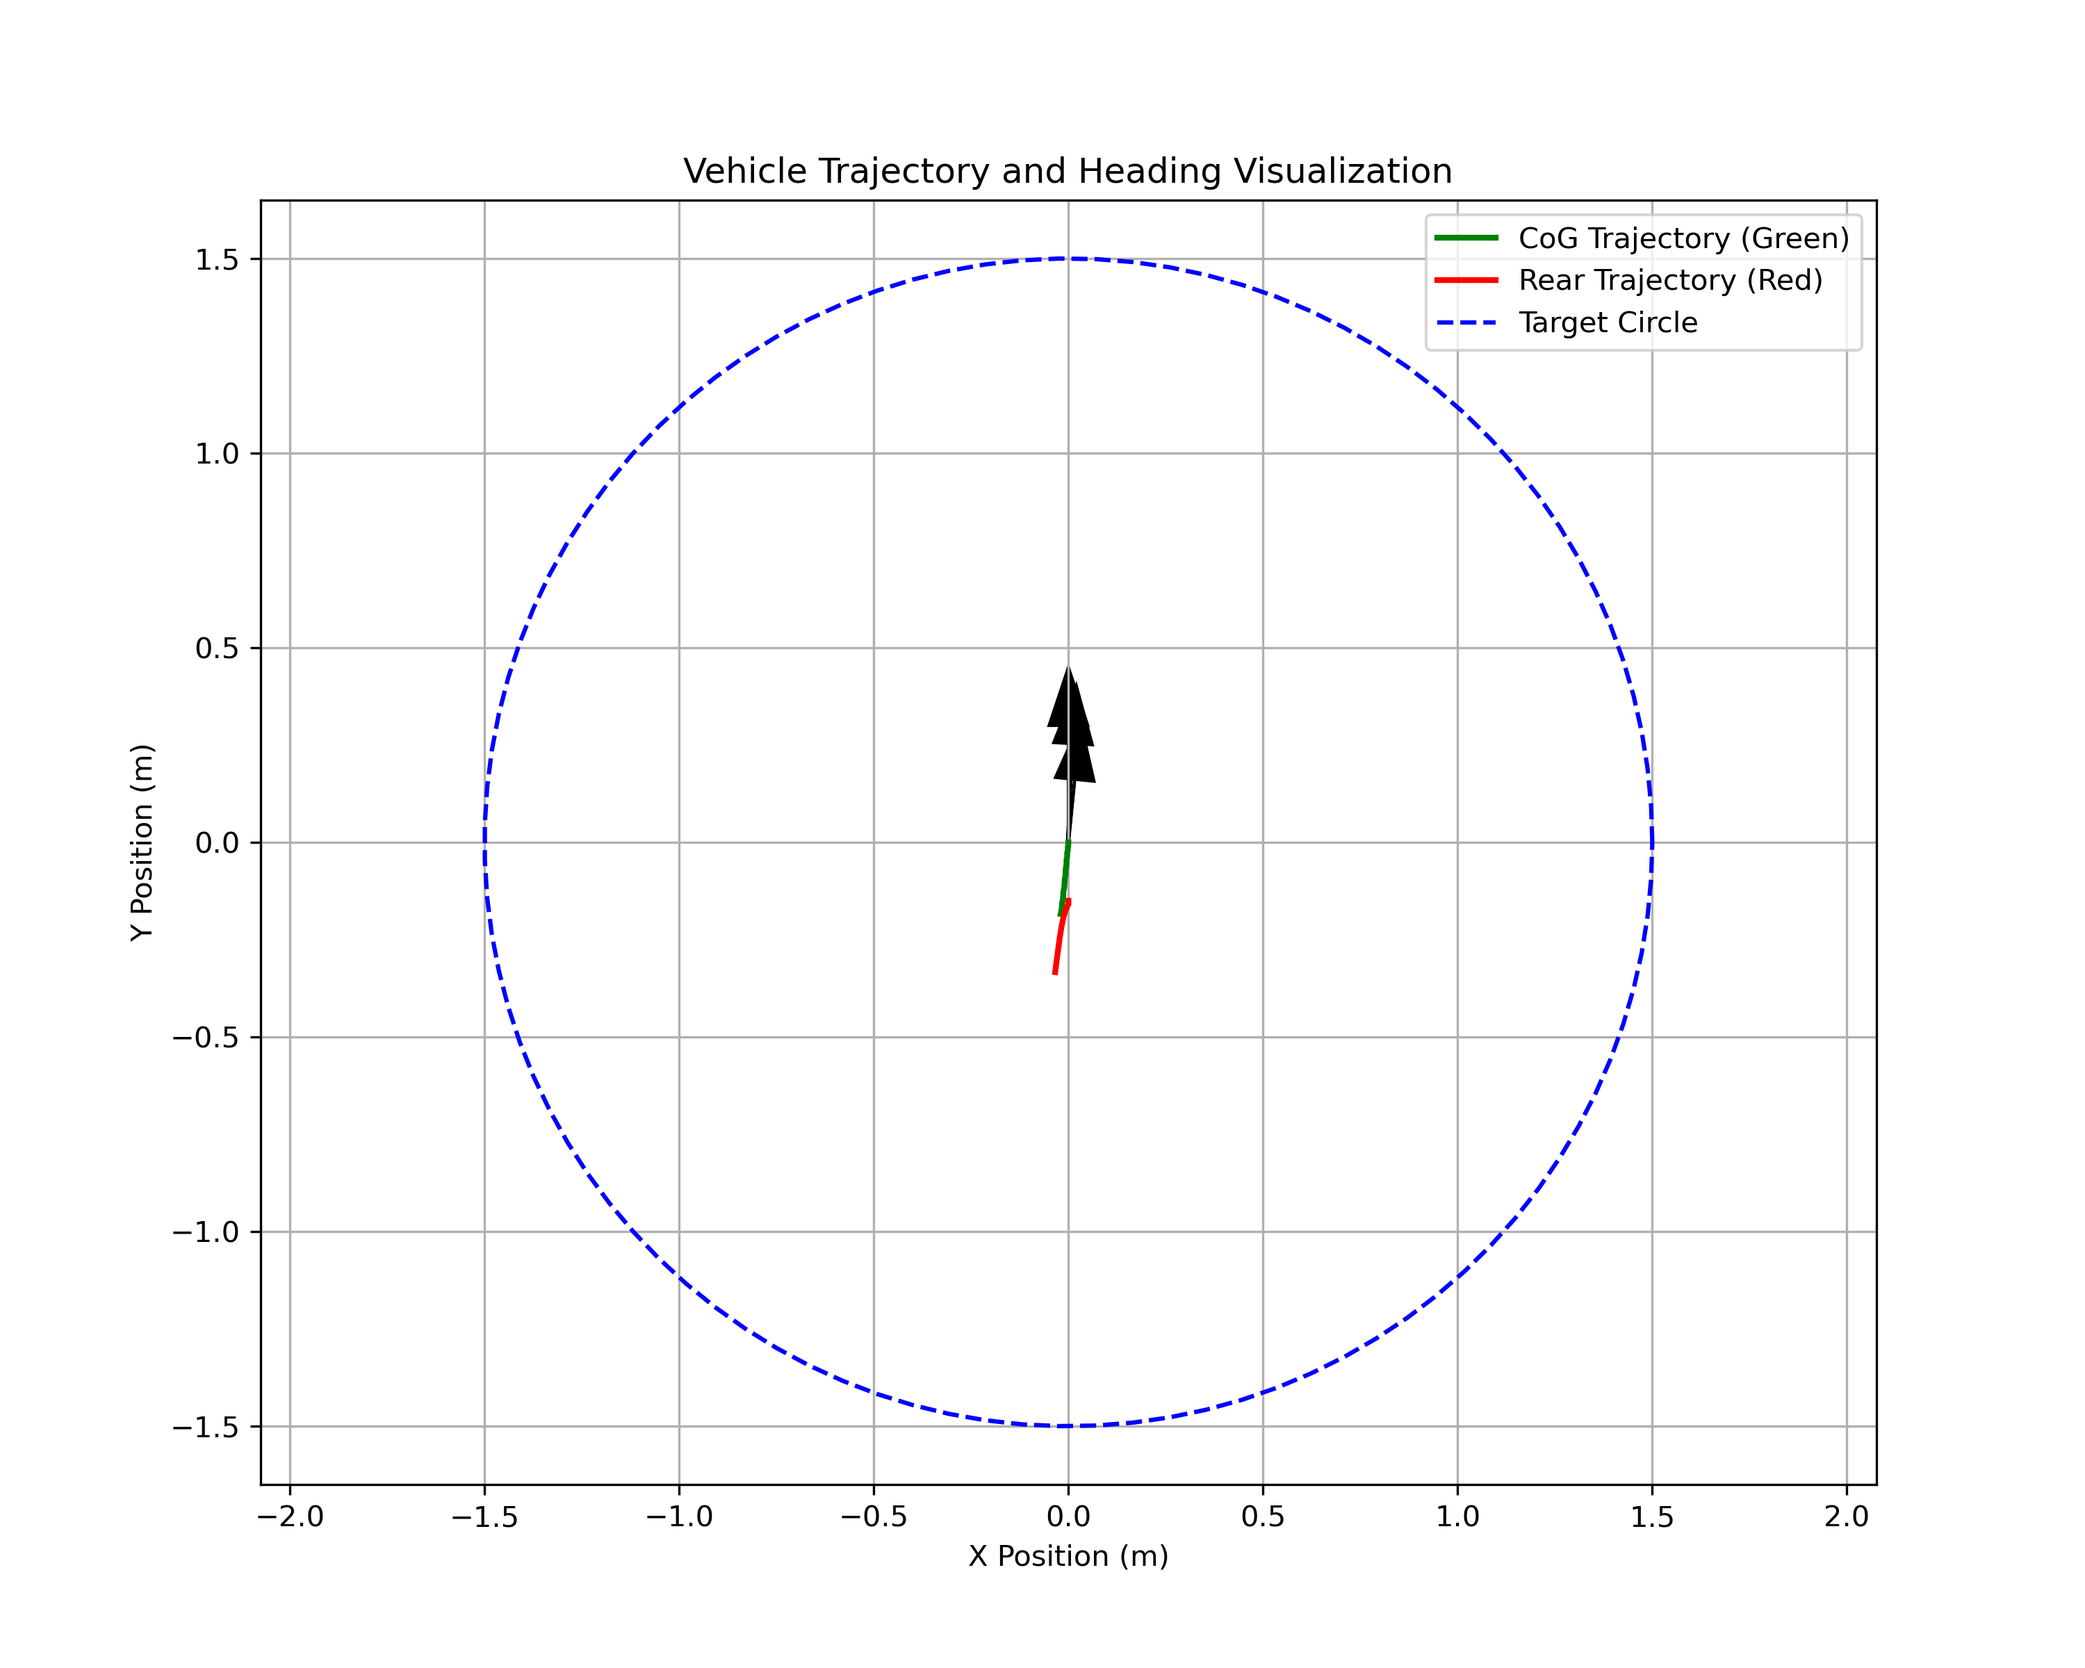
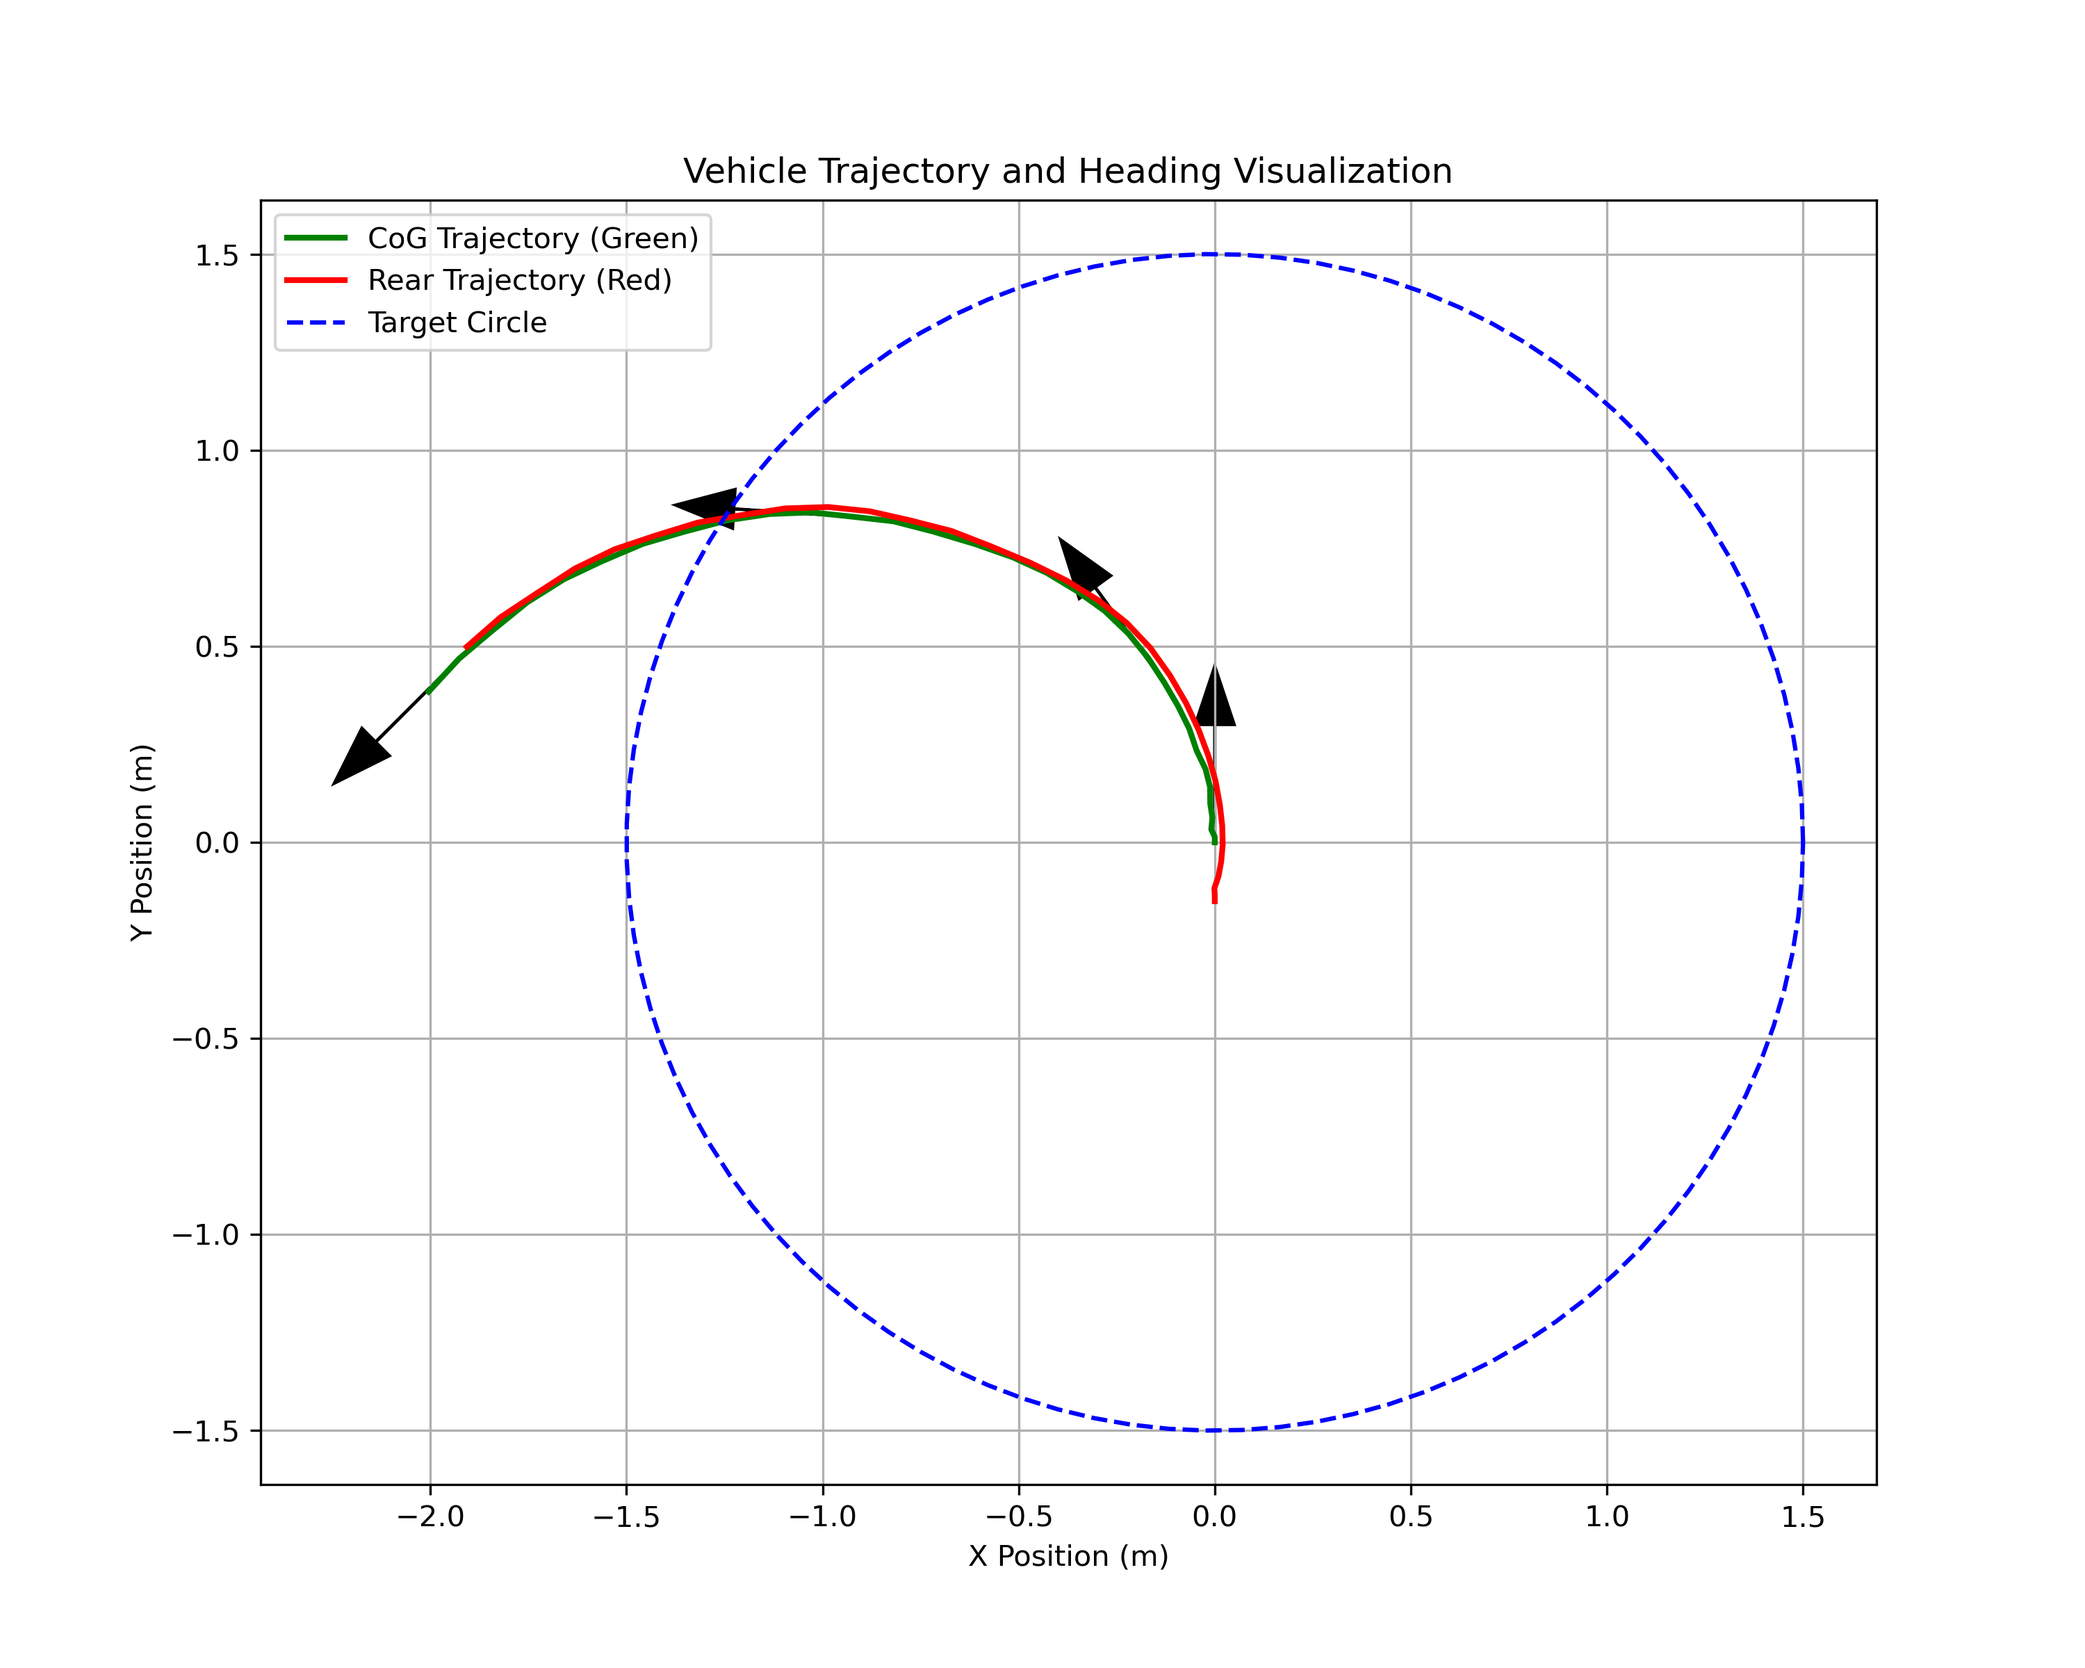
visualize with pygame (unfinished)

diff --git a/nmpc_controller/scripts/loco_nmpc_matplotlib.py b/nmpc_controller/scripts/loco_nmpc_matplotlib.py
@@ -13,11 +13,11 @@ b = 0.14328
 a = L - b
 G_front = m * g * b / L
 G_rear = m * g * a / L
-C_x = 116
-C_alpha = 197
+C_x = 116 # tire longitudinal stiffness
+C_y = 197 # tire lateral stiffness
 Iz = 0.045
-mu = 1.31 # Typical dry road friction
-mu_spin = 0.55 # Friction when tires are spinning
+mu = 1.31 # mu_peak
+mu_spin = 0.55 # spinning coefficient
 
 circle_radius = 1.5
 v_max = 2.5 # m/s
@@ -25,7 +25,7 @@ steer_max = 0.698 # rad
 
 # Initialize plot
 fig, ax = plt.subplots()
-ax.axis([-2, 2, -2, 2])
+ax.axis([-2.5, 2.5, -2.5, 2.5])
 ax.set_aspect('equal')
 line, = ax.plot([], [], 'b-')
 traj_cog, = ax.plot([], [], 'g-')
@@ -47,42 +47,46 @@ x = [0.0, 0.0, np.pi/2, 0.0, 0.0, 0.0]
 def wrap_to_pi(angle):
     return (angle + np.pi) % (2 * np.pi) - np.pi
 
-def tire_dyn(Ux, Ux_cmd, mu, mu_slide, Fz, C_x, C_alpha, alpha):
-    # longitude wheel slip
-    if Ux_cmd == Ux:
+def tire_dyn(Ux, Ux_cmd, mu, mu_slide, Fz, C_x, C_y, alpha):
+    # Longitudinal wheel slip
+    if abs(Ux_cmd - Ux) < 1e-6:  # Ux_cmd approximately equal to Ux
         K = 0
-    elif Ux == 0:
+    elif abs(Ux) < 1e-6:  # Handle Ux = 0
         Fx = np.sign(Ux_cmd) * mu * Fz
         Fy = 0
         return Fx, Fy
     else:
         K = (Ux_cmd - Ux) / abs(Ux)
 
-    # instead of avoiding -1, now look for positive equivalent
+    # Handle K < 0 case
     reverse = 1
     if K < 0:
         reverse = -1
         K = abs(K)
 
-    # alpha > pi/2 cannot be adapted to this formula
-    # because of the use of tan(). Use the equivalent angle instead.
+    # Alpha > pi/2 adaptation
     if abs(alpha) > np.pi / 2:
         alpha = (np.pi - abs(alpha)) * np.sign(alpha)
 
-    gamma = np.sqrt(C_x**2 * (K / (1 + K))**2 + C_alpha**2 * (np.tan(alpha) / (1 + K))**2)
+    # Calculate gamma with safeguard for K = -1
+    gamma = np.sqrt(C_x**2 * (K / max(1 + K, 1e-6))**2 + C_y**2 * (np.tan(alpha) / max(1 + K, 1e-6))**2)
+
+    # Friction model for gamma <= 3 * mu * Fz
     if gamma <= 3 * mu * Fz:
         F = gamma - (2 - mu_slide / mu) * gamma**2 / (3 * mu * Fz) + \
             (1 - (2 / 3) * (mu_slide / mu)) * gamma**3 / (9 * mu**2 * Fz**2)
     else:
-        # more accurate modeling with peak friction value
         F = mu_slide * Fz
 
+    # Compute forces with safeguard for gamma = 0
     if gamma == 0:
         Fx = Fy = 0
     else:
-        Fx = C_x / gamma * (K / (1 + K)) * F * reverse
-        Fy = -C_alpha / gamma * (np.tan(alpha) / (1 + K)) * F
+        Fx = C_x / max(gamma, 1e-6) * (K / max(1 + K, 1e-6)) * F * reverse
+        Fy = -C_y / max(gamma, 1e-6) * (np.tan(alpha) / max(1 + K, 1e-6)) * F
+
     return Fx, Fy
+
 
 def dynamics(x, u):
     pos_x, pos_y, pos_phi = x[:3]
@@ -106,8 +110,8 @@ def dynamics(x, u):
     # safety that keep alpha in valid range
     alpha_F, alpha_R = wrap_to_pi(alpha_F), wrap_to_pi(alpha_R)
 
-    Fxf, Fyf = tire_dyn(Ux, Ux, mu, mu_spin, G_front, C_x, C_alpha, alpha_F)
-    Fxr, Fyr = tire_dyn(Ux, Ux_cmd, mu, mu_spin, G_rear, C_x, C_alpha, alpha_R)
+    Fxf, Fyf = tire_dyn(Ux, Ux, mu, mu_spin, G_front, C_x, C_y, alpha_F)
+    Fxr, Fyr = tire_dyn(Ux, Ux_cmd, mu, mu_spin, G_rear, C_x, C_y, alpha_R)
 
     # Vehicle Dynamics
     r_dot = (a * Fyf * np.cos(delta) - b * Fyr) / Iz
@@ -145,7 +149,6 @@ def cost_function(u, x0, N, dt):
     # x0: initial state
     # N: prediction horizon
     # u: control inputs over the horizon (throttle, steering)
-
     vx = x0[3]
 
     if vx >= 0:
@@ -178,11 +181,12 @@ def cost_function(u, x0, N, dt):
     return cost
 
 # MPC setup
-N = 10  # prediction horizon
+N = 3  # prediction horizon
 
 # u_initial = np.random.uniform(-2.0, 2.0, 2 * N)  # Randomize within bounds
 # u_initial = [-0.70733845,  0.05867338, -2.1500941,   0.16801063,  0.06384393, -0.58938019] # Backward
 # u_initial = [0.84183408,  0.45151292,  0.7560102,   0.35675445, -2.09682026,  0.33119607] # Forward
+# u_initial = [0, 0, 0, 0, 0, 0]
 
 throttle_bound = (-v_max, v_max)  
 steer_bound = (-steer_max, steer_max)
@@ -224,21 +228,6 @@ heading_arrow = ax.quiver(0, 0, 0, 0, angles="xy", scale_units="xy", scale=3, co
 # Legend for trajectories
 ax.legend([traj_cog, traj_r], ["CoG Trajectory (Green)", "Rear Trajectory (Red)"], loc="upper right")
 
-# Add data lists to store values for subplots
-vx_data = []
-vy_data = []
-yaw_data = []
-r_data = []
-slip_angle_data = []
-steering_angle_data = []
-vx_cmd_data = []
-
-velocity_texts = [
-    ax.text(0.05, 0.95, "v_x: 0.00", transform=ax.transAxes, color="black", fontsize=10),
-    ax.text(0.05, 0.90, "v_y: 0.00", transform=ax.transAxes, color="black", fontsize=10)
-]
-
-# Modify the update_plot function to collect data for subplots
 def update_plot(frame):
     global x
     u = mpc_control(x)  # Get control inputs from MPC
@@ -246,26 +235,7 @@ def update_plot(frame):
 
     pos_x, pos_y, pos_phi = x[:3]
     v_x, v_y = x[3], x[4]  # Assuming v_x and v_y are at index 3 and 4 of the state vector
-    r = x[5]  # Yaw rate
 
-    # Calculate slip angle for front and rear
-    alpha_F = np.arctan((v_y + a * r) / abs(v_x))  # Front slip angle
-    alpha_R = np.arctan((v_y - b * r) / abs(v_x))  # Rear slip angle
-    
-    # Get the current input
-    vx_cmd = u[0]
-    steering_angle = u[1]
-
-    # Append the data for the subplots
-    vx_data.append(v_x)
-    vy_data.append(v_y)
-    yaw_data.append(pos_phi)
-    r_data.append(r)
-    slip_angle_data.append(alpha_F)  # Assuming you want the front slip angle
-    steering_angle_data.append(steering_angle)
-    vx_cmd_data.append(vx_cmd)
-
-    # Update the trajectory and heading arrow as before
     A = np.array([[np.cos(pos_phi), -np.sin(pos_phi), pos_x],
                   [np.sin(pos_phi), np.cos(pos_phi), pos_y],
                   [0, 0, 1]])
@@ -273,6 +243,7 @@ def update_plot(frame):
     CoG_n = A @ CoG
     rear_n = A @ r_axle
 
+    # Update the plot
     line.set_data(pos[0, :], pos[1, :])
 
     # Append new points to the trajectory lists
@@ -292,77 +263,49 @@ def update_plot(frame):
     # Update the static velocity annotations (in top-left corner)
     velocity_texts[0].set_text(f"v_x: {v_x:.2f}")
     velocity_texts[1].set_text(f"v_y: {v_y:.2f}")
-    
-    # Stop after N frames (e.g., 500 frames)
-    if frame == 200:
-        plt.close()  # Close the plot window
-        plot_simulation_results()  # Call the function to plot after the animation
 
-# Create the plotting function for subplots
-def plot_simulation_results():
-    # Create subplots for the simulation data
-    fig, axs = plt.subplots(3, 2, figsize=(12, 10))
-    fig.suptitle("Vehicle Dynamics during Simulation", fontsize=16)
-
-    # Plot v_x and v_y
-    axs[0, 0].plot(vx_data, label="v_x (m/s)")
-    
-    # Determine the direction of motion (forward or backward)
-    if vx_data[-1] >= 0:
-        vx_goal = v_max  # Forward velocity goal
-    else:
-        vx_goal = -v_max  # Backward velocity goal
-    axs[0, 0].axhline(y=vx_goal, color='r', linestyle='--', label="v_x_goal")
-    
-    axs[0, 0].set_ylabel("v_x (m/s)")
-    axs[0, 0].legend()
-    axs[0, 0].grid()
-
-    axs[0, 1].plot(vy_data, label="v_y (m/s)")
-    axs[0, 1].set_ylabel("v_y (m/s)")
-    axs[0, 1].legend()
-    axs[0, 1].grid()
-
-    # Plot yaw angle and yaw rate (r)
-    axs[1, 0].plot(yaw_data, label="Yaw (rad)")
-    axs[1, 0].set_ylabel("Yaw (rad)")
-    axs[1, 0].legend()
-    axs[1, 0].grid()
-
-    axs[1, 1].plot(r_data, label="Yaw rate (rad/s)")
-    
-    # Determine the yaw rate goal based on the current motion direction
-    if vx_data[-1] >= 0:
-        r_goal = vx_goal / circle_radius  # Forward yaw rate goal
-    else:
-        r_goal = vx_goal / circle_radius  # Backward yaw rate goal (same calculation, opposite direction)
-    axs[1, 1].axhline(y=r_goal, color='r', linestyle='--', label="r_goal")
-    
-    axs[1, 1].set_ylabel("Yaw rate (rad/s)")
-    axs[1, 1].legend()
-    axs[1, 1].grid()
-
-    # Plot slip angle
-    axs[2, 0].plot(slip_angle_data, label="Slip angle (rad)")
-    axs[2, 0].set_ylabel("Slip angle (rad)")
-    axs[2, 0].legend()
-    axs[2, 0].grid()
-
-    # Plot Control Input
-    axs[2, 1].plot(vx_cmd_data, label="v_x command (m/s)")
-    axs[2, 1].plot(steering_angle_data, label="Steering angle (rad)")
-    axs[2, 1].set_ylabel("Control Input")
-    axs[2, 1].legend()
-    axs[2, 1].grid()
-
-    plt.tight_layout()
-    plt.subplots_adjust(top=0.9)
-    plt.show()
-
+# Initialize a list to store the velocity text annotations
+velocity_texts = [
+    ax.text(0.05, 0.95, "v_x: 0.00", transform=ax.transAxes, color="black", fontsize=10),
+    ax.text(0.05, 0.90, "v_y: 0.00", transform=ax.transAxes, color="black", fontsize=10)
+]
 
 # Start the animation
 ani = FuncAnimation(fig, update_plot, frames=500, interval=dt * 1000)
 plt.show()
 
+################################# Plot ####################################################
 
+# Static plot of the trajectory and heading
+plt.figure(figsize=(10, 8))
+
+# Plot the trajectories
+plt.plot(traj_cog_x, traj_cog_y, label="CoG Trajectory (Green)", color="green", linewidth=2)
+plt.plot(traj_r_x, traj_r_y, label="Rear Trajectory (Red)", color="red", linewidth=2)
+
+# Add the heading arrows
+for i in range(0, len(traj_cog_x), 10):  # Plot every 10th point for clarity
+    x, y = traj_cog_x[i], traj_cog_y[i]
+    yaw = wrap_to_pi(np.arctan2(traj_cog_y[i] - traj_r_y[i], traj_cog_x[i] - traj_r_x[i]))  # Corrected yaw direction
+    dx = 0.3 * np.cos(yaw)  # Scale arrows
+    dy = 0.3 * np.sin(yaw)
+    plt.arrow(x, y, dx, dy, head_width=0.1, head_length=0.15, fc="black", ec="black")
+
+# Add circle for the target trajectory
+theta = np.linspace(0, 2 * np.pi, 100)
+circle_x = circle_radius * np.cos(theta)
+circle_y = circle_radius * np.sin(theta)
+plt.plot(circle_x, circle_y, '--', label='Target Circle', color="blue", linewidth=1.5)
+
+# Plot settings
+plt.xlabel("X Position (m)")
+plt.ylabel("Y Position (m)")
+plt.title("Vehicle Trajectory and Heading Visualization")
+plt.axis("equal")
+plt.legend()
+plt.grid()
+
+# Save the plot as an image
+plt.savefig("trajectory_and_heading.png", dpi=300)
+plt.show()
 

diff --git a/nmpc_controller/scripts/model_predictive_speed_and_steer_control.py b/nmpc_controller/scripts/model_predictive_speed_and_steer_control.py
@@ -18,9 +18,9 @@ from utils.angle import angle_mod
 
 from PathPlanning.CubicSpline import cubic_spline_planner
 
-NX = 6  # x = x, y, yaw, vx, vy, r
-NU = 2  # u = [v_cmd, delta]
-T = 5  # horizon length
+NX = 4  # x = x, y, v, yaw
+NU = 2  # a = [accel, steer]
+T = 50  # horizon length
 
 # mpc parameters
 R = np.diag([0.01, 0.01])  # input cost matrix
@@ -35,26 +35,24 @@ MAX_TIME = 500.0  # max simulation time
 MAX_ITER = 3  # Max iteration
 DU_TH = 0.1  # iteration finish param
 
-TARGET_SPEED = 1.5  # [m/s] target speed
+TARGET_SPEED = 10.0 / 3.6  # [m/s] target speed
 N_IND_SEARCH = 10  # Search index number
 
-DT = 0.2  # [s] time tick
+DT = 0.02  # [s] time tick
 
 # Vehicle parameters
-LENGTH = 0.3855  # [m]
-WIDTH = 0.1542  # [m]
-BACKTOWHEEL = 0.15  # [m]
-WHEEL_LEN = 0.05  # [m]
-WHEEL_WIDTH = 0.03  # [m]
-TREAD = 0.12  # [m]
-WB = 0.257  # [m]
-MASS = 2.35 # [kg]
-Iz = 0.045 # [kg mm]
+LENGTH = 4.5  # [m]
+WIDTH = 2.0  # [m]
+BACKTOWHEEL = 1.0  # [m]
+WHEEL_LEN = 0.3  # [m]
+WHEEL_WIDTH = 0.2  # [m]
+TREAD = 0.7  # [m]
+WB = 2.5  # [m]
 
 MAX_STEER = np.deg2rad(45.0)  # maximum steering angle [rad]
 MAX_DSTEER = np.deg2rad(30.0)  # maximum steering speed [rad/s]
-MAX_SPEED = 2.5 # 55.0 / 3.6  # maximum speed [m/s]
-MIN_SPEED = 0.1 # -20.0 / 3.6  # minimum speed [m/s]
+MAX_SPEED = 55.0 / 3.6  # maximum speed [m/s]
+MIN_SPEED = -20.0 / 3.6  # minimum speed [m/s]
 MAX_ACCEL = 1.0  # maximum accel [m/ss]
 
 show_animation = True
@@ -65,13 +63,11 @@ class State:
     vehicle state class
     """
 
-    def __init__(self, x=0.0, y=0.0, yaw=0.0, vx=0.0, vy=0.0, r=0.0):
+    def __init__(self, x=0.0, y=0.0, yaw=0.0, v=0.0):
         self.x = x
         self.y = y
         self.yaw = yaw
-        self.vx = vx
-        self.vy = vy
-        self.r = r
+        self.v = v
         self.predelta = None
 
 

diff --git a/nmpc_controller/scripts/loco_nmpc_pygame.py b/nmpc_controller/scripts/loco_nmpc_pygame.py
@@ -5,7 +5,7 @@ import scipy.optimize as opt
 
 # Vehicle parameters 
 # Constants
-dt = 0.2
+dt = 0.05
 m = 2.35
 L = 0.257
 g = 9.81
@@ -86,7 +86,6 @@ def tire_dyn(Ux, Ux_cmd, mu, mu_slide, Fz, C_x, C_y, alpha):
         Fy = -C_y / max(gamma, 1e-6) * (np.tan(alpha) / max(1 + K, 1e-6)) * F
 
     return Fx, Fy
-
 
 def dynamics(x, u):
     pos_x, pos_y, pos_phi = x[:3]
@@ -181,7 +180,7 @@ def cost_function(u, x0, N, dt):
     return cost
 
 # MPC setup
-N = 5  # prediction horizon
+N = 3  # prediction horizon
 
 # u_initial = np.random.uniform(-2.0, 2.0, 2 * N)  # Randomize within bounds
 # u_initial = [-0.70733845,  0.05867338, -2.1500941,   0.16801063,  0.06384393, -0.58938019] # Backward
@@ -275,6 +274,7 @@ ani = FuncAnimation(fig, update_plot, frames=500, interval=dt * 1000)
 plt.show()
 
 ################################# Plot ####################################################
+
 # Static plot of the trajectory and heading
 plt.figure(figsize=(10, 8))
 

diff --git a/nmpc_controller/scripts/mpc_casadi.py b/nmpc_controller/scripts/mpc_casadi.py
@@ -18,7 +18,7 @@
 #
 
 from casadi import *
-import numpy as NP
+import numpy as np
 import matplotlib.pyplot as plt
 import pandas as pd 
 
